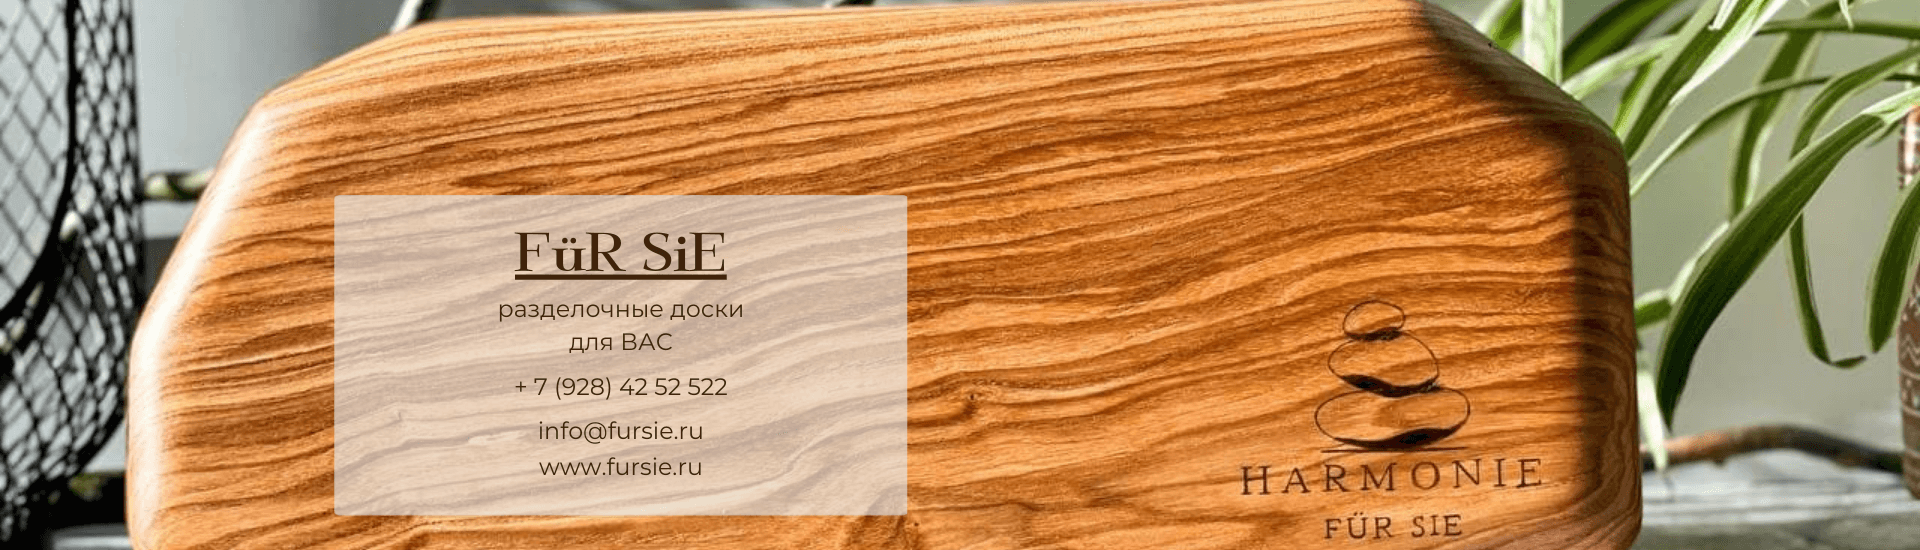
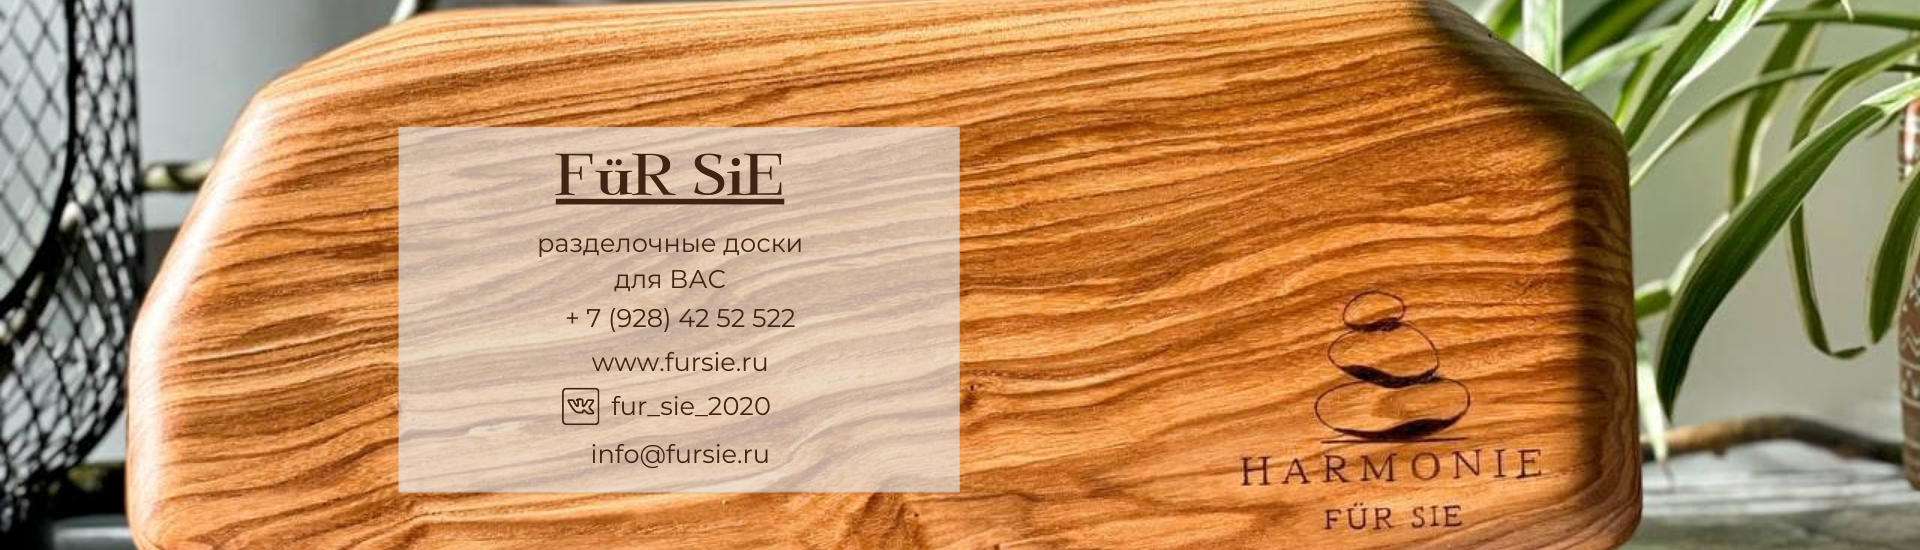
update temlate

diff --git a/storage/template/index.html b/storage/template/index.html
@@ -55,7 +55,6 @@
                         <div class="dropdown-menu" aria-labelledby="dropdown01">
                             <a class="dropdown-item" href="shop.html">Магазин</a>
                             <a class="dropdown-item" href="product_card.html">Демо карточки товара</a>
-                            <a class="dropdown-item" href="#">Что-то ещё</a>
                         </div>
                     </li>
 
@@ -74,27 +73,20 @@
     <footer>
         <div class="footer__container">
             <div class="socials">
-                <a href="https://nl.pinterest.com/mikevermeij" target="_blank" rel="noopener noreferrer">
-                    <img class="alignnone size-medium wp-image-631 alignright" src="https://michaelvermeij.com/wp-content/uploads/pin.png" alt="" width="45" height="45">
+                <a href="https://vk.com/fur_sie_2020" target="_blank" rel="noopener noreferrer">
+                    <img class="alignnone size-medium wp-image-631 alignright" src="assets/icons/VK_logo.svg" alt="ссылка на VK" width="30" height="30">
                 </a>
 
-                <a href="http://www.instagram.com/handcrafted.design" target="_blank" rel="noopener noreferrer">
-                    <img class="alignnone size-medium wp-image-630 alignright" src="https://michaelvermeij.com/wp-content/uploads/inst.png" alt="" width="45" height="45">
-                </a>
-
-                <a href="http://www.etsy.com/shop/MichaelVermeij" target="_blank" rel="noopener noreferrer">
-                    <img class="alignnone size-full wp-image-628 alignright" src="https://michaelvermeij.com/wp-content/uploads/ets.png" alt="" width="44" height="45">
+                <a href="https://t.me/FuR_SiE_2020" target="_blank" rel="noopener noreferrer">
+                    <img class="alignnone size-medium wp-image-630 alignright" src="assets/icons/telegram.svg" alt="ссылка на telegram" width="30" height="30">
                 </a>
             </div>
 
             <div class="footer__menu"><p>&nbsp;</p>
                 <p style="text-align: right; line-height: 25px">
-                    logo &amp; webdesign | Vincent van de Haar<br>
-                    all rights reserved &amp; photography&nbsp;| Michael Vermeij<br>
-                    video |<a href="https://www.firehorsephotographyfrance.com/"> Firehorse Films</a><br>
-                    &nbsp; <br>
-                    <a href="https://michaelvermeij.com/privacy-policy">privacy policy</a>&nbsp;<br>
-                    siret; 82907682700023
+                    логотип | Семенова Ирина Владимировна<br>
+                    все права защищены и фотография | Семенова Ирина Владимировна<br>
+                    2022
                 </p>
             </div>
         </div>

diff --git a/storage/template/css/style.css b/storage/template/css/style.css
@@ -6,9 +6,22 @@
 @import "article.css";
 @import "product_card.css";
 
+html {
+    height: 100%;
+    flex: 0 0 auto;
+}
 body {
+    display: flex;
+    flex-direction: column;
+    height: 100%;
     font-family: 'Montserrat', sans-serif;
     overflow-x: hidden;
+}
+main {
+    flex: 1 0 auto;
+}
+footer {
+    flex: 0 0 auto;
 }
 a {
     color: #4b4b4b;
@@ -76,6 +89,9 @@ a:hover {
     }
     .home_bg {
         background-image: url("../assets/img/home_page_bg_tablet.png");
+    }
+    .contact_bg {
+        background-image: url("../assets/img/contact_bg_tablet.png");
     }
 }
 @media (max-width: 768px) {

diff --git a/storage/template/css/footer.css b/storage/template/css/footer.css
@@ -8,7 +8,7 @@ footer {
 }
 .footer__menu {
     font-size: 10px;
-    padding-bottom: 100px;
+    padding-bottom: 50px;
 }
 .footer__menu a {
     color: #b05d36;

diff --git a/resources/views/frontend/layout.blade.php b/resources/views/frontend/layout.blade.php
@@ -16,7 +16,7 @@
     <meta name="theme-color" content="#ffffff">
     <link rel="preconnect" href="https://fonts.googleapis.com">
     <link rel="preconnect" href="https://fonts.gstatic.com" crossorigin>
-    <link href="https://fonts.googleapis.com/css2?family=Quicksand:wght@300;400;500;600&display=swap" rel="stylesheet">
+    <link href="https://fonts.googleapis.com/css2?family=Montserrat:wght@300;400;500;600;700&display=swap" rel="stylesheet">
     <link rel="stylesheet" href="<?= ax_frontend('css/main.css') ?>">
     <link rel="stylesheet" href="<?= ax_frontend('css/common.css') ?>">
     <title><?= config('app.company_name') ?> | <?= $title ?? '' ?></title>
@@ -70,7 +70,6 @@
                         <div class="dropdown-menu" aria-labelledby="dropdown01">
                             <a class="dropdown-item" href="shop.html">Магазин</a>
                             <a class="dropdown-item" href="product_card.html">Демо карточки товара</a>
-                            <a class="dropdown-item" href="#">Что-то ещё</a>
                         </div>
                     </li>
 
@@ -85,27 +84,20 @@
     <footer>
         <div class="footer__container">
             <div class="socials">
-                <a href="https://nl.pinterest.com/mikevermeij" target="_blank" rel="noopener noreferrer">
-                    <img class="alignnone size-medium wp-image-631 alignright" src="https://michaelvermeij.com/wp-content/uploads/pin.png" alt="" width="45" height="45">
+                <a href="https://vk.com/fur_sie_2020" target="_blank" rel="noopener noreferrer">
+                    <img class="alignnone size-medium wp-image-631 alignright" src="assets/icons/VK_logo.svg" alt="ссылка на VK" width="30" height="30">
                 </a>
 
-                <a href="http://www.instagram.com/handcrafted.design" target="_blank" rel="noopener noreferrer">
-                    <img class="alignnone size-medium wp-image-630 alignright" src="https://michaelvermeij.com/wp-content/uploads/inst.png" alt="" width="45" height="45">
-                </a>
-
-                <a href="http://www.etsy.com/shop/MichaelVermeij" target="_blank" rel="noopener noreferrer">
-                    <img class="alignnone size-full wp-image-628 alignright" src="https://michaelvermeij.com/wp-content/uploads/ets.png" alt="" width="44" height="45">
+                <a href="https://t.me/FuR_SiE_2020" target="_blank" rel="noopener noreferrer">
+                    <img class="alignnone size-medium wp-image-630 alignright" src="assets/icons/telegram.svg" alt="ссылка на telegram" width="30" height="30">
                 </a>
             </div>
 
             <div class="footer__menu"><p>&nbsp;</p>
                 <p style="text-align: right; line-height: 25px">
-                    logo &amp; webdesign | Vincent van de Haar<br>
-                    all rights reserved &amp; photography&nbsp;| Michael Vermeij<br>
-                    video |<a href="https://www.firehorsephotographyfrance.com/"> Firehorse Films</a><br>
-                    &nbsp; <br>
-                    <a href="https://michaelvermeij.com/privacy-policy">privacy policy</a>&nbsp;<br>
-                    siret; 82907682700023
+                    логотип | Семенова Ирина Владимировна<br>
+                    все права защищены и фотография | Семенова Ирина Владимировна<br>
+                    2022
                 </p>
             </div>
         </div>
